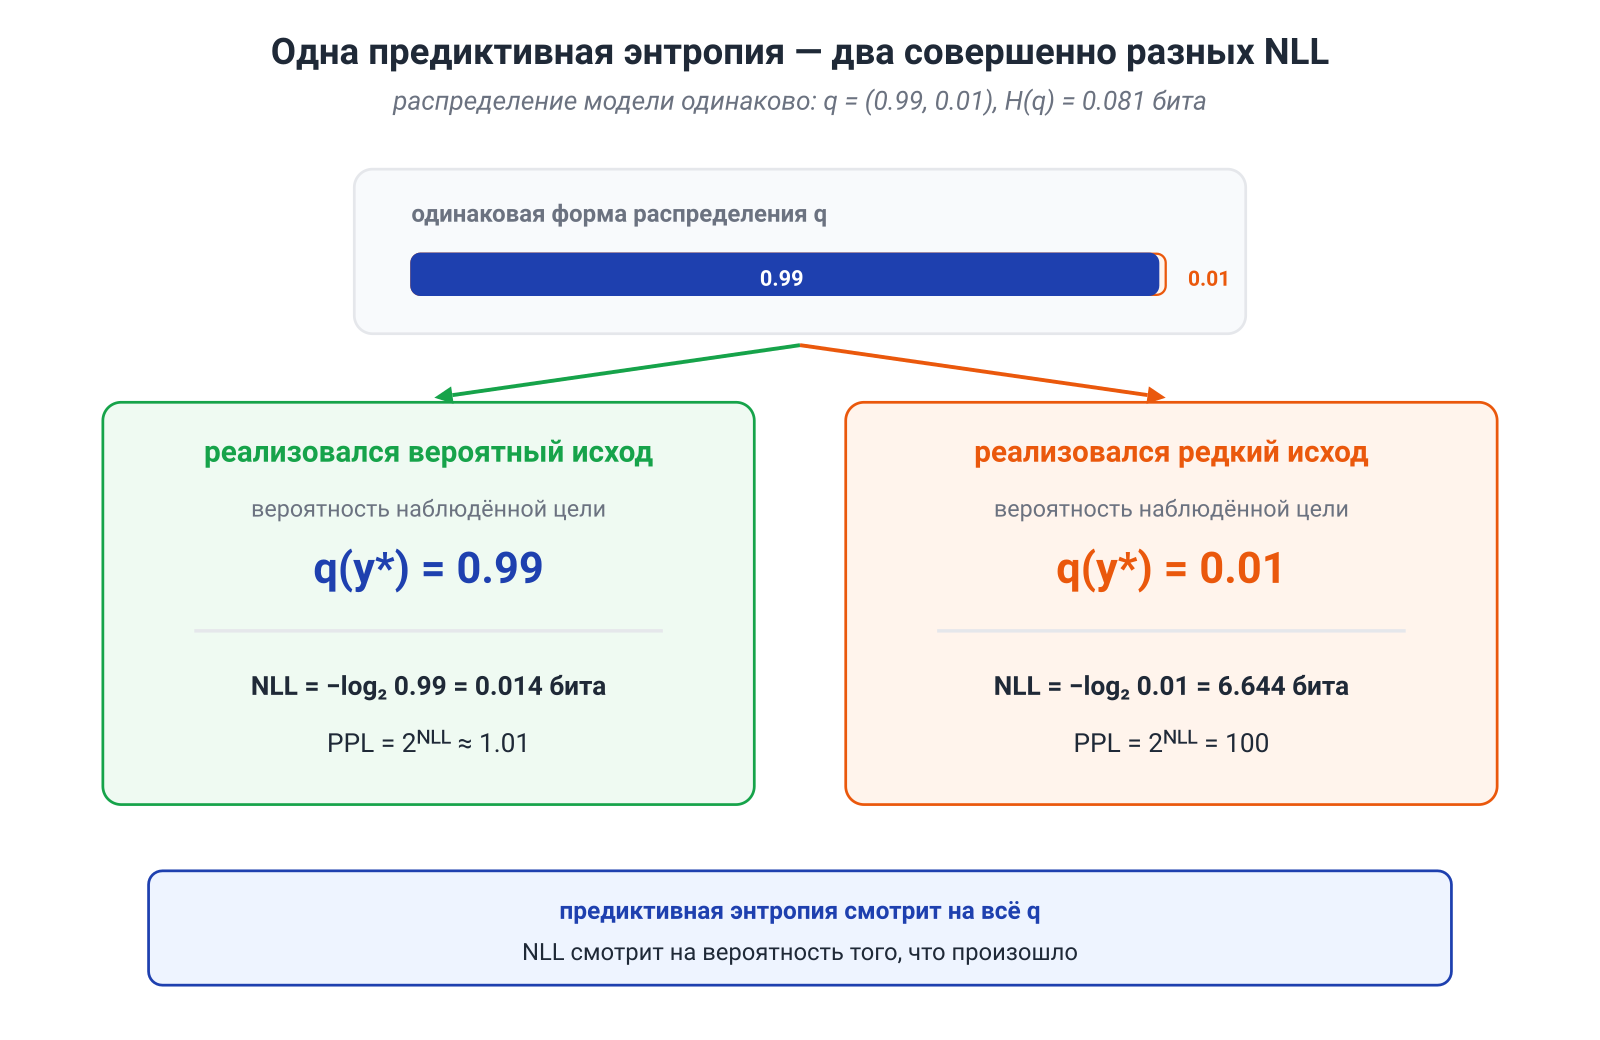
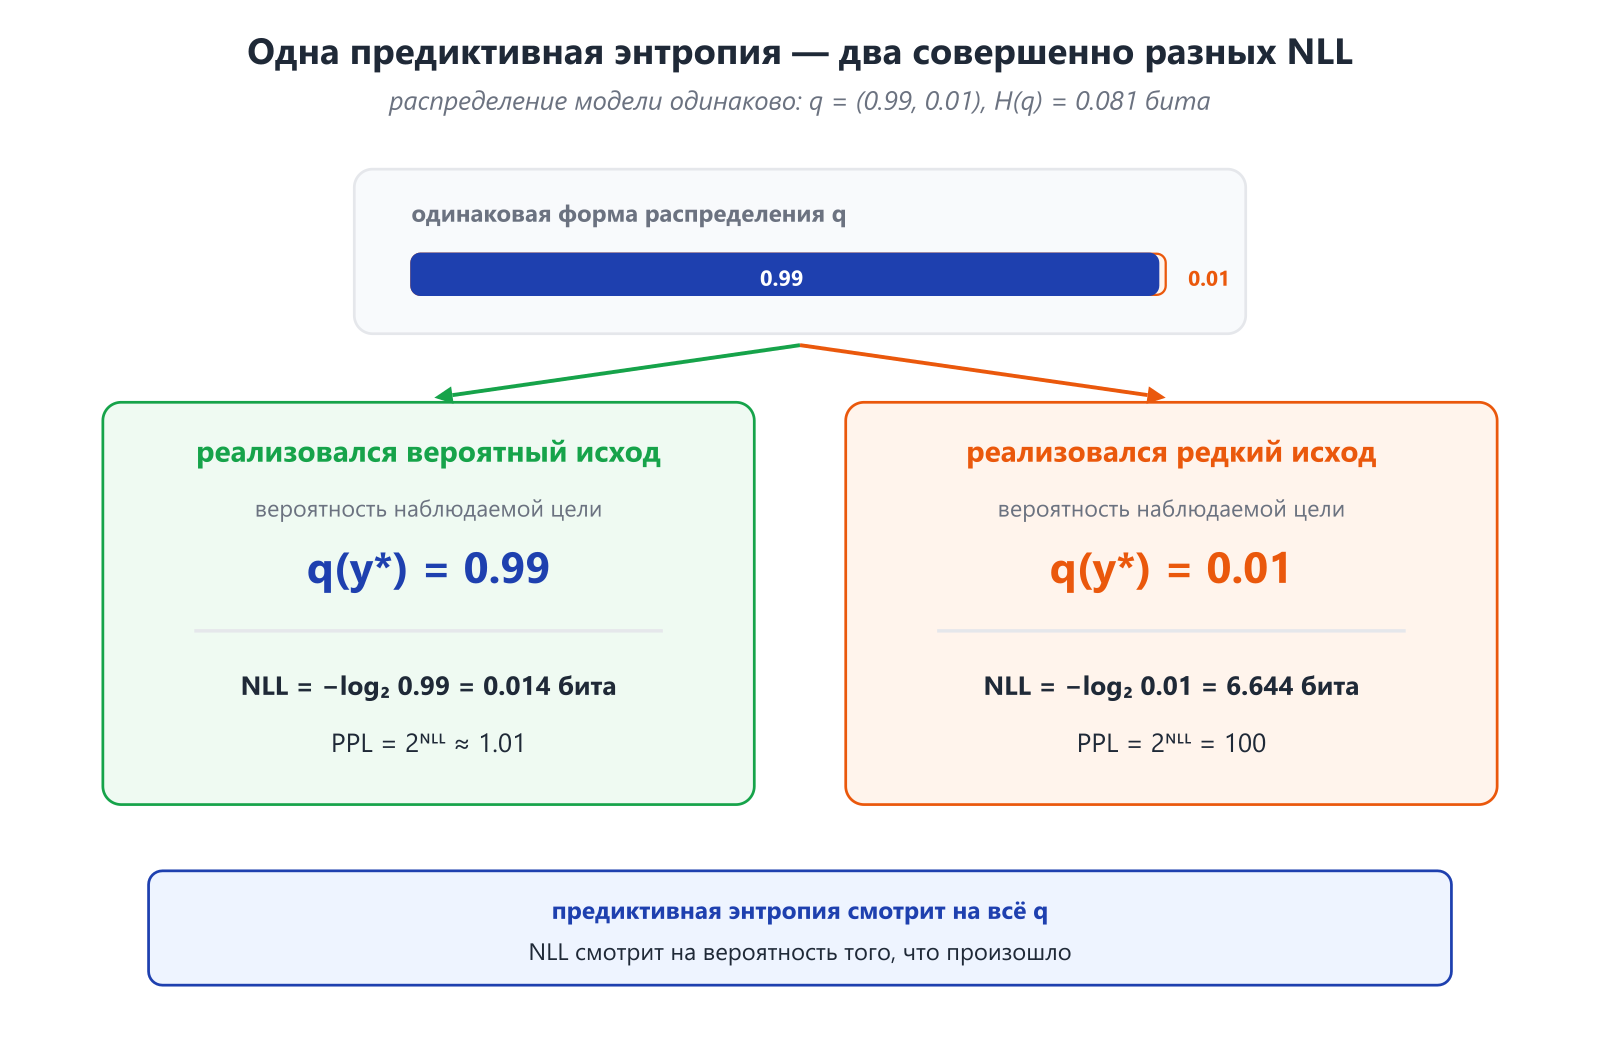
Update Russian information theory terminology

diff --git a/public/content/information-theory-for-ml/ru/module-03.md b/public/content/information-theory-for-ml/ru/module-03.md
@@ -30,7 +30,7 @@ $$
 -\ln 0.04\approx3.219.
 $$
 
-Уверенность полезна, когда она направлена в правильную сторону, и дорога, когда модель уверенно ошибается. Именно это измеряет **логарифмическая потеря** (`log-loss`): для наблюдённого исхода $y$
+Уверенность полезна, когда она направлена в правильную сторону, и дорога, когда модель уверенно ошибается. Именно это измеряет **логарифмическая потеря** (`log-loss`): для реализовавшегося исхода $y$
 
 $$
 \ell(q,y)=-\log q(y).
@@ -110,7 +110,7 @@ $$
 -\sum_{k=1}^K(e_y)_k\log q_k=-\log q_y.
 $$
 
-Это удобная запись наблюдённого события. Она не превращает истинное $P(Y\mid X=x)$ в вырожденный one-hot закон. Для одного и того же объекта могут существовать неоднозначная разметка, несколько допустимых продолжений, шум или скрытый контекст. Набор данных показывает по одному исходу за раз; распределение проявляется только через повторение и структуру выборки.
+Это удобная запись фактически полученного исхода. Она не превращает истинное $P(Y\mid X=x)$ в вырожденный one-hot закон. Для одного и того же объекта могут существовать неоднозначная разметка, несколько допустимых продолжений, шум или скрытый контекст. Набор данных показывает по одному исходу за раз; распределение проявляется только через повторение и структуру выборки.
 
 ### Когда модель объявляет возможное невозможным
 
@@ -457,7 +457,7 @@ $$
 \nabla_z\ell=q-e_y.
 $$
 
-Модель уменьшает логиты классов, которым дала больше вероятности, чем требуется целью, и увеличивает логит наблюдённого класса. Величина поправки уже масштабирована текущей вероятностью — отдельный ручной коэффициент для softmax не нужен.
+Модель уменьшает логиты классов, которым дала больше вероятности, чем требуется целью, и увеличивает логит целевого класса. Величина поправки уже масштабирована текущей вероятностью — отдельный ручной коэффициент для softmax не нужен.
 
 Матрица Гессе равна
 
@@ -524,9 +524,9 @@ $$
 
 ## 3.7. Перплексия: возврат из логарифмической шкалы
 
-NLL удобен для сложения и оптимизации, но его логарифмическая шкала не всегда интуитивна. Перплексия (`perplexity`, PPL) экспоненцирует среднюю потерю обратно.
+NLL удобен для сложения и оптимизации, но его логарифмическая шкала не всегда интуитивна. Перплексия (`perplexity`, PPL) возвращает среднюю потерю из логарифмической шкалы в мультипликативную, экспоненцируя её.
 
-Для $N$ наблюдённых целей
+Для $N$ наблюдаемых целей
 
 $$
 \widehat L_b
@@ -559,11 +559,11 @@ $$
 \right)^{1/N}.
 $$
 
-То есть PPL — **геометрическое среднее обратной вероятности, которую модель дала наблюдённым целям**.
+То есть PPL — **геометрическое среднее обратных вероятностей, назначенных моделью наблюдаемым целям**.
 
 ### Небольшой пример
 
-Пусть на трёх шагах модель дала фактически наблюдённым токенам вероятности
+Пусть на трёх шагах модель назначила фактически наблюдаемым токенам вероятности
 
 $$\frac12,\qquad\frac14,\qquad\frac18.$$
 

diff --git a/public/content/information-theory-for-ml/ru/module-04.md b/public/content/information-theory-for-ml/ru/module-04.md
@@ -242,7 +242,7 @@ q_{\mathrm{mix}}(y\mid x)
 \sum_{j=1}^M\lambda_jq_j(y\mid x).
 $$
 
-Для наблюдённой метки $y$ функция $-\log u$ строго выпукла, поэтому
+Для целевой метки $y$ функция $-\log u$ строго выпукла, поэтому
 
 $$
 \boxed{
@@ -255,7 +255,7 @@ $$
 
 Это сильнее, чем утверждение о среднем качестве на тестовой выборке: неравенство выполняется **для каждого отдельного примера**. После усреднения по набору данных оно, конечно, сохраняется.
 
-Равенство достигается тогда, когда все модели с положительным весом назначают наблюдённому классу одну и ту же вероятность. Полные распределения при этом могут различаться: для per-example NLL важна только координата правильного класса.
+Равенство достигается тогда, когда все модели с положительным весом назначают целевому классу одну и ту же вероятность. Полные распределения при этом могут различаться: для per-example NLL важна только координата правильного класса.
 
 Формула гарантирует сравнение со средним участником, но не с лучшим. Она также не обещает автоматически повысить `top-1 accuracy`, улучшить калибровку на любом распределении или защитить от сдвига данных. Это не слабость результата, а его точная область действия: **для фиксированных предсказаний смесь вероятностей не хуже среднего участника по log-loss**.
 

diff --git a/public/content/information-theory-for-ml/ru/module-15.md b/public/content/information-theory-for-ml/ru/module-15.md
@@ -524,7 +524,7 @@ $$
  g_\theta(x_i,y_i)g_\theta(x_i,y_i)^\top.
 $$
 
-Здесь метки $y_i$ пришли из данных, а не из $p_\theta(\cdot\mid x_i)$. Поэтому эта матрица является вторым моментом наблюдённых пообъектных градиентов, но в общем случае не является несмещённой оценкой модельной Fisher и не обязана приближать гессиан. Это различие подробно анализируют [Kunstner, Balles и Hennig, 2019](https://arxiv.org/abs/1905.12558).
+Здесь метки $y_i$ пришли из данных, а не из $p_\theta(\cdot\mid x_i)$. Поэтому эта матрица является вторым моментом пообъектных градиентов, вычисленных по данным, но в общем случае не является несмещённой оценкой модельной Fisher и не обязана приближать гессиан. Это различие подробно анализируют [Kunstner, Balles и Hennig, 2019](https://arxiv.org/abs/1905.12558).
 
 Небольшой пример показывает масштаб расхождения. Для Bernoulli-модели в логит-координате:
 
@@ -706,7 +706,7 @@ $$
 =(0.50,q,0.50-q).
 $$
 
-Отношение вероятностей наблюдённого действия всегда равно единице, поэтому соответствующий sampled surrogate не меняется. Но
+Отношение вероятностей фактически выбранного действия всегда равно единице, поэтому соответствующий sampled surrogate не меняется. Но
 
 $$
 D_{\mathrm{KL}}

diff --git a/public/content/information-theory-for-ml/ru/module-06.md b/public/content/information-theory-for-ml/ru/module-06.md
@@ -909,7 +909,7 @@ $$
 
 ## 6.13. Заключение
 
-В начале модуля $-\log q$ была знакомой функцией потерь. Теперь у неё появился физически проверяемый смысл: это идеальный счёт в битах, который вероятностная модель выставляет наблюдённой последовательности.
+В начале модуля $-\log q$ была знакомой функцией потерь. Теперь у неё появился физически проверяемый смысл: это идеальный счёт в битах, который вероятностная модель выставляет наблюдаемой последовательности.
 
 Основную конструкцию можно собрать в одну строку:
 
